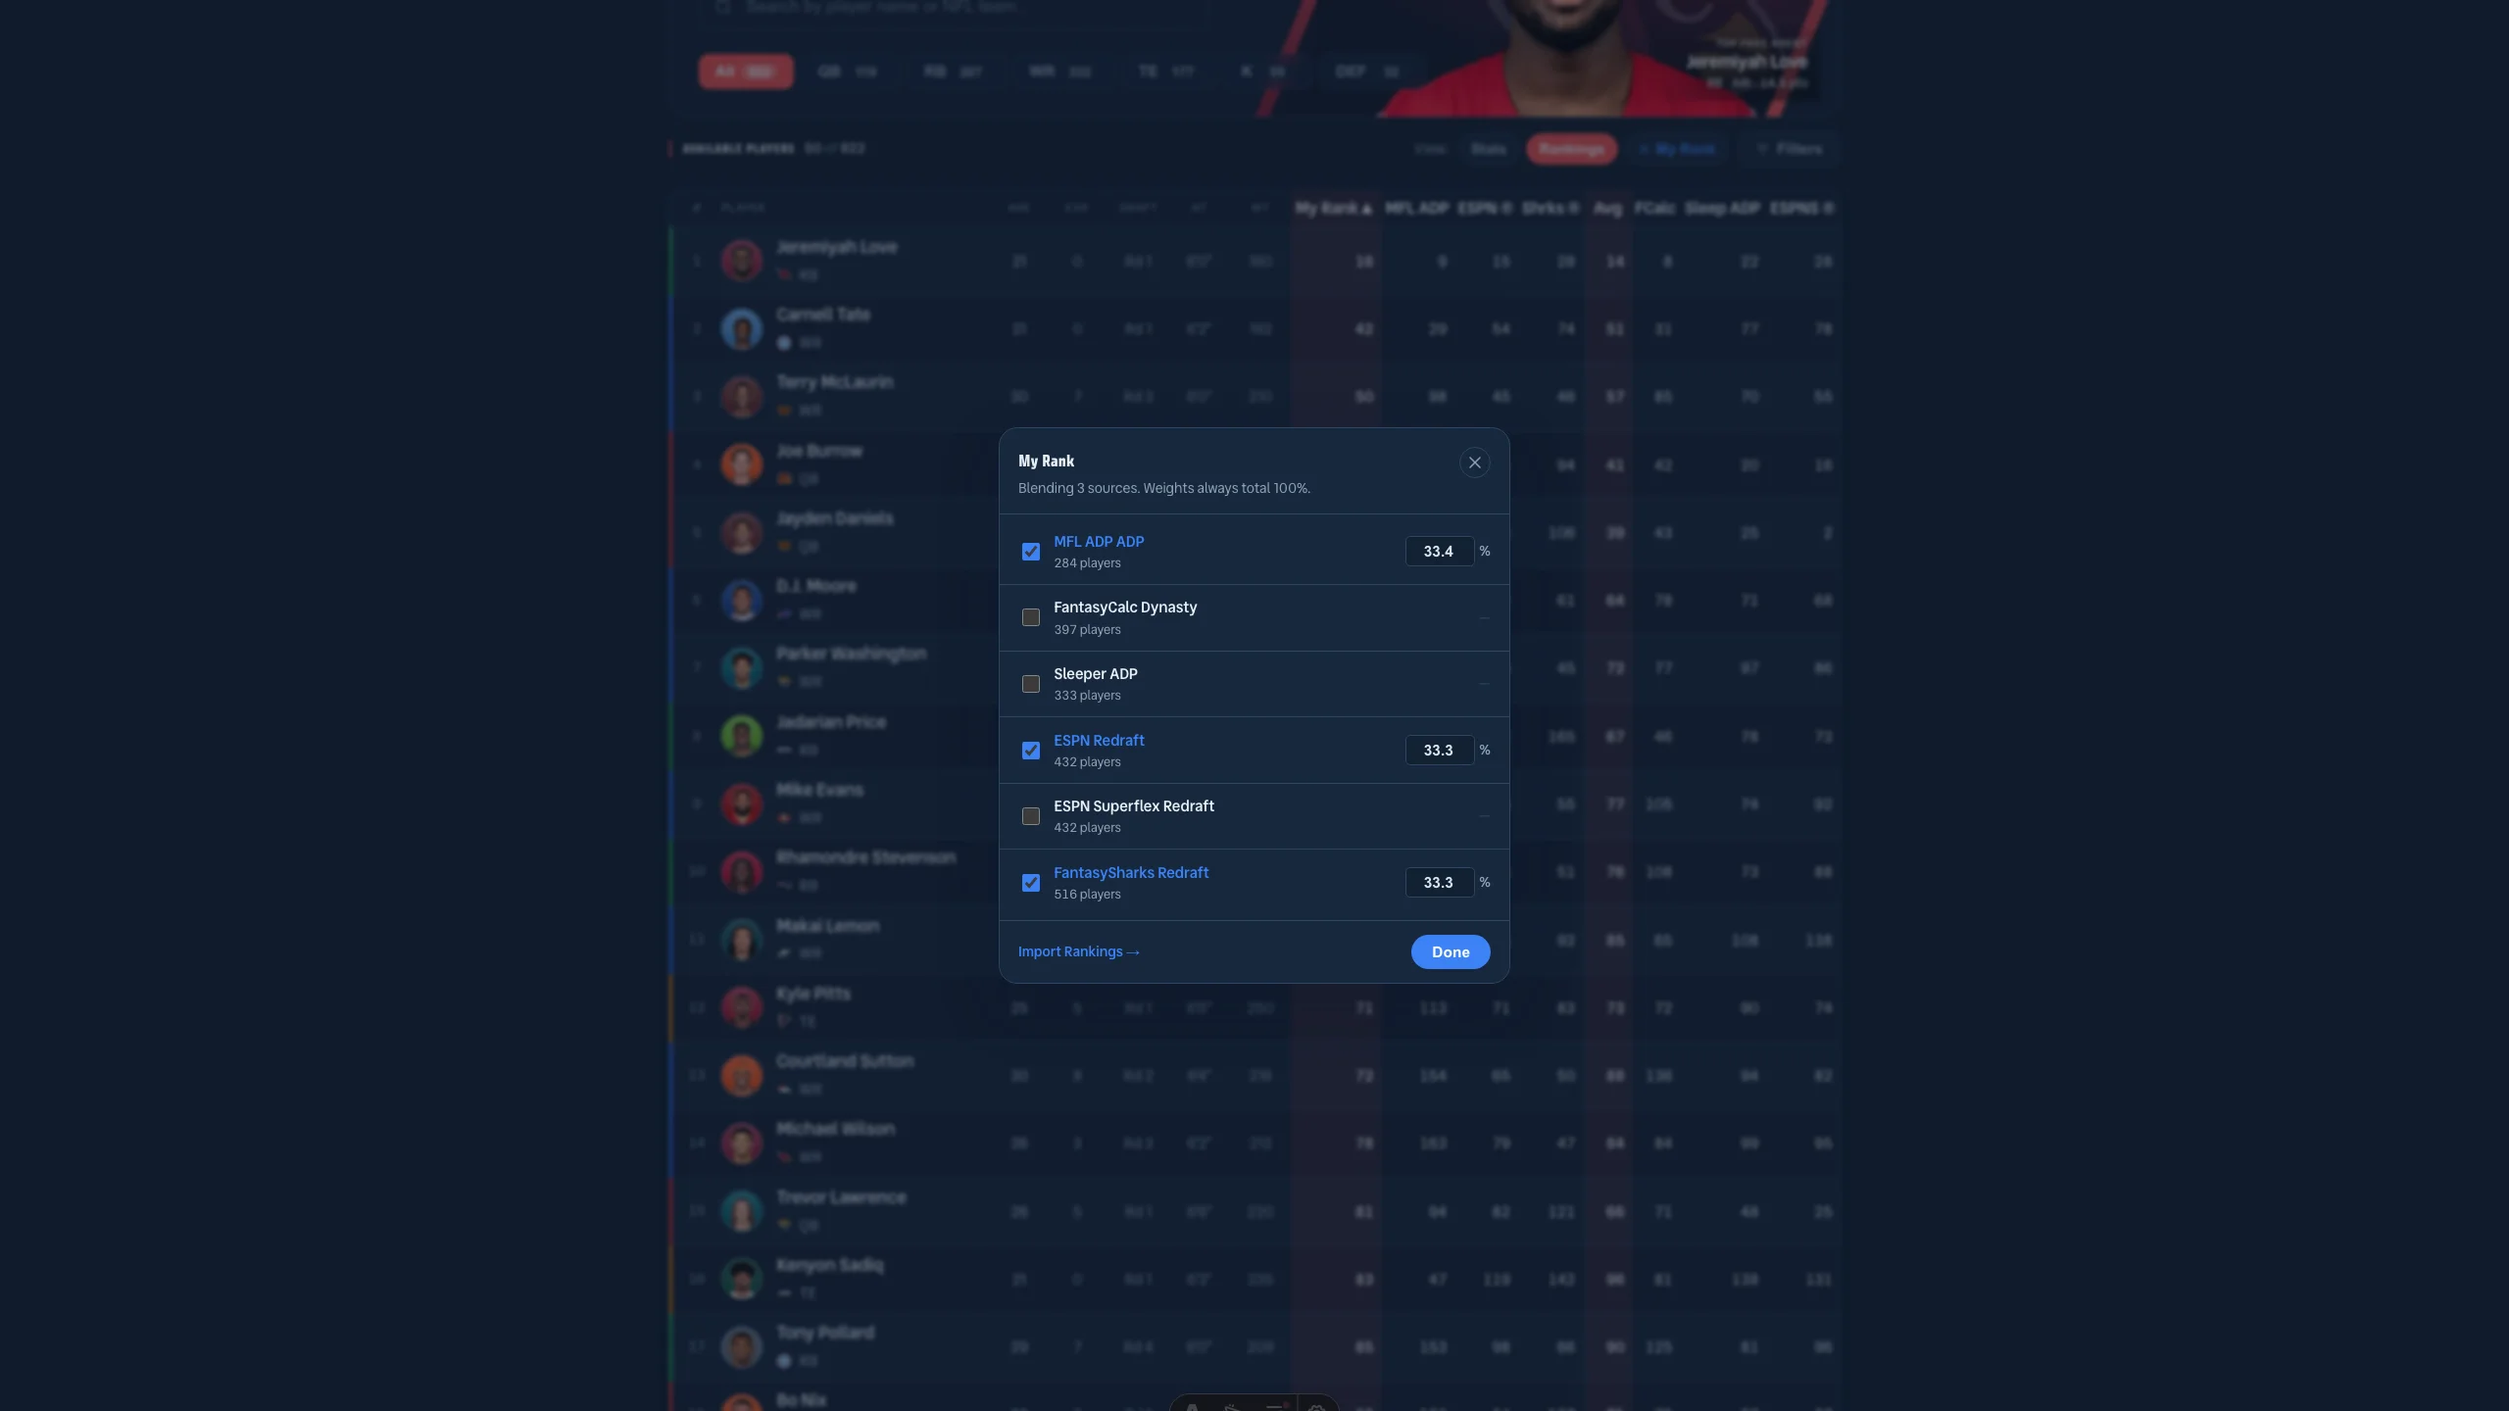
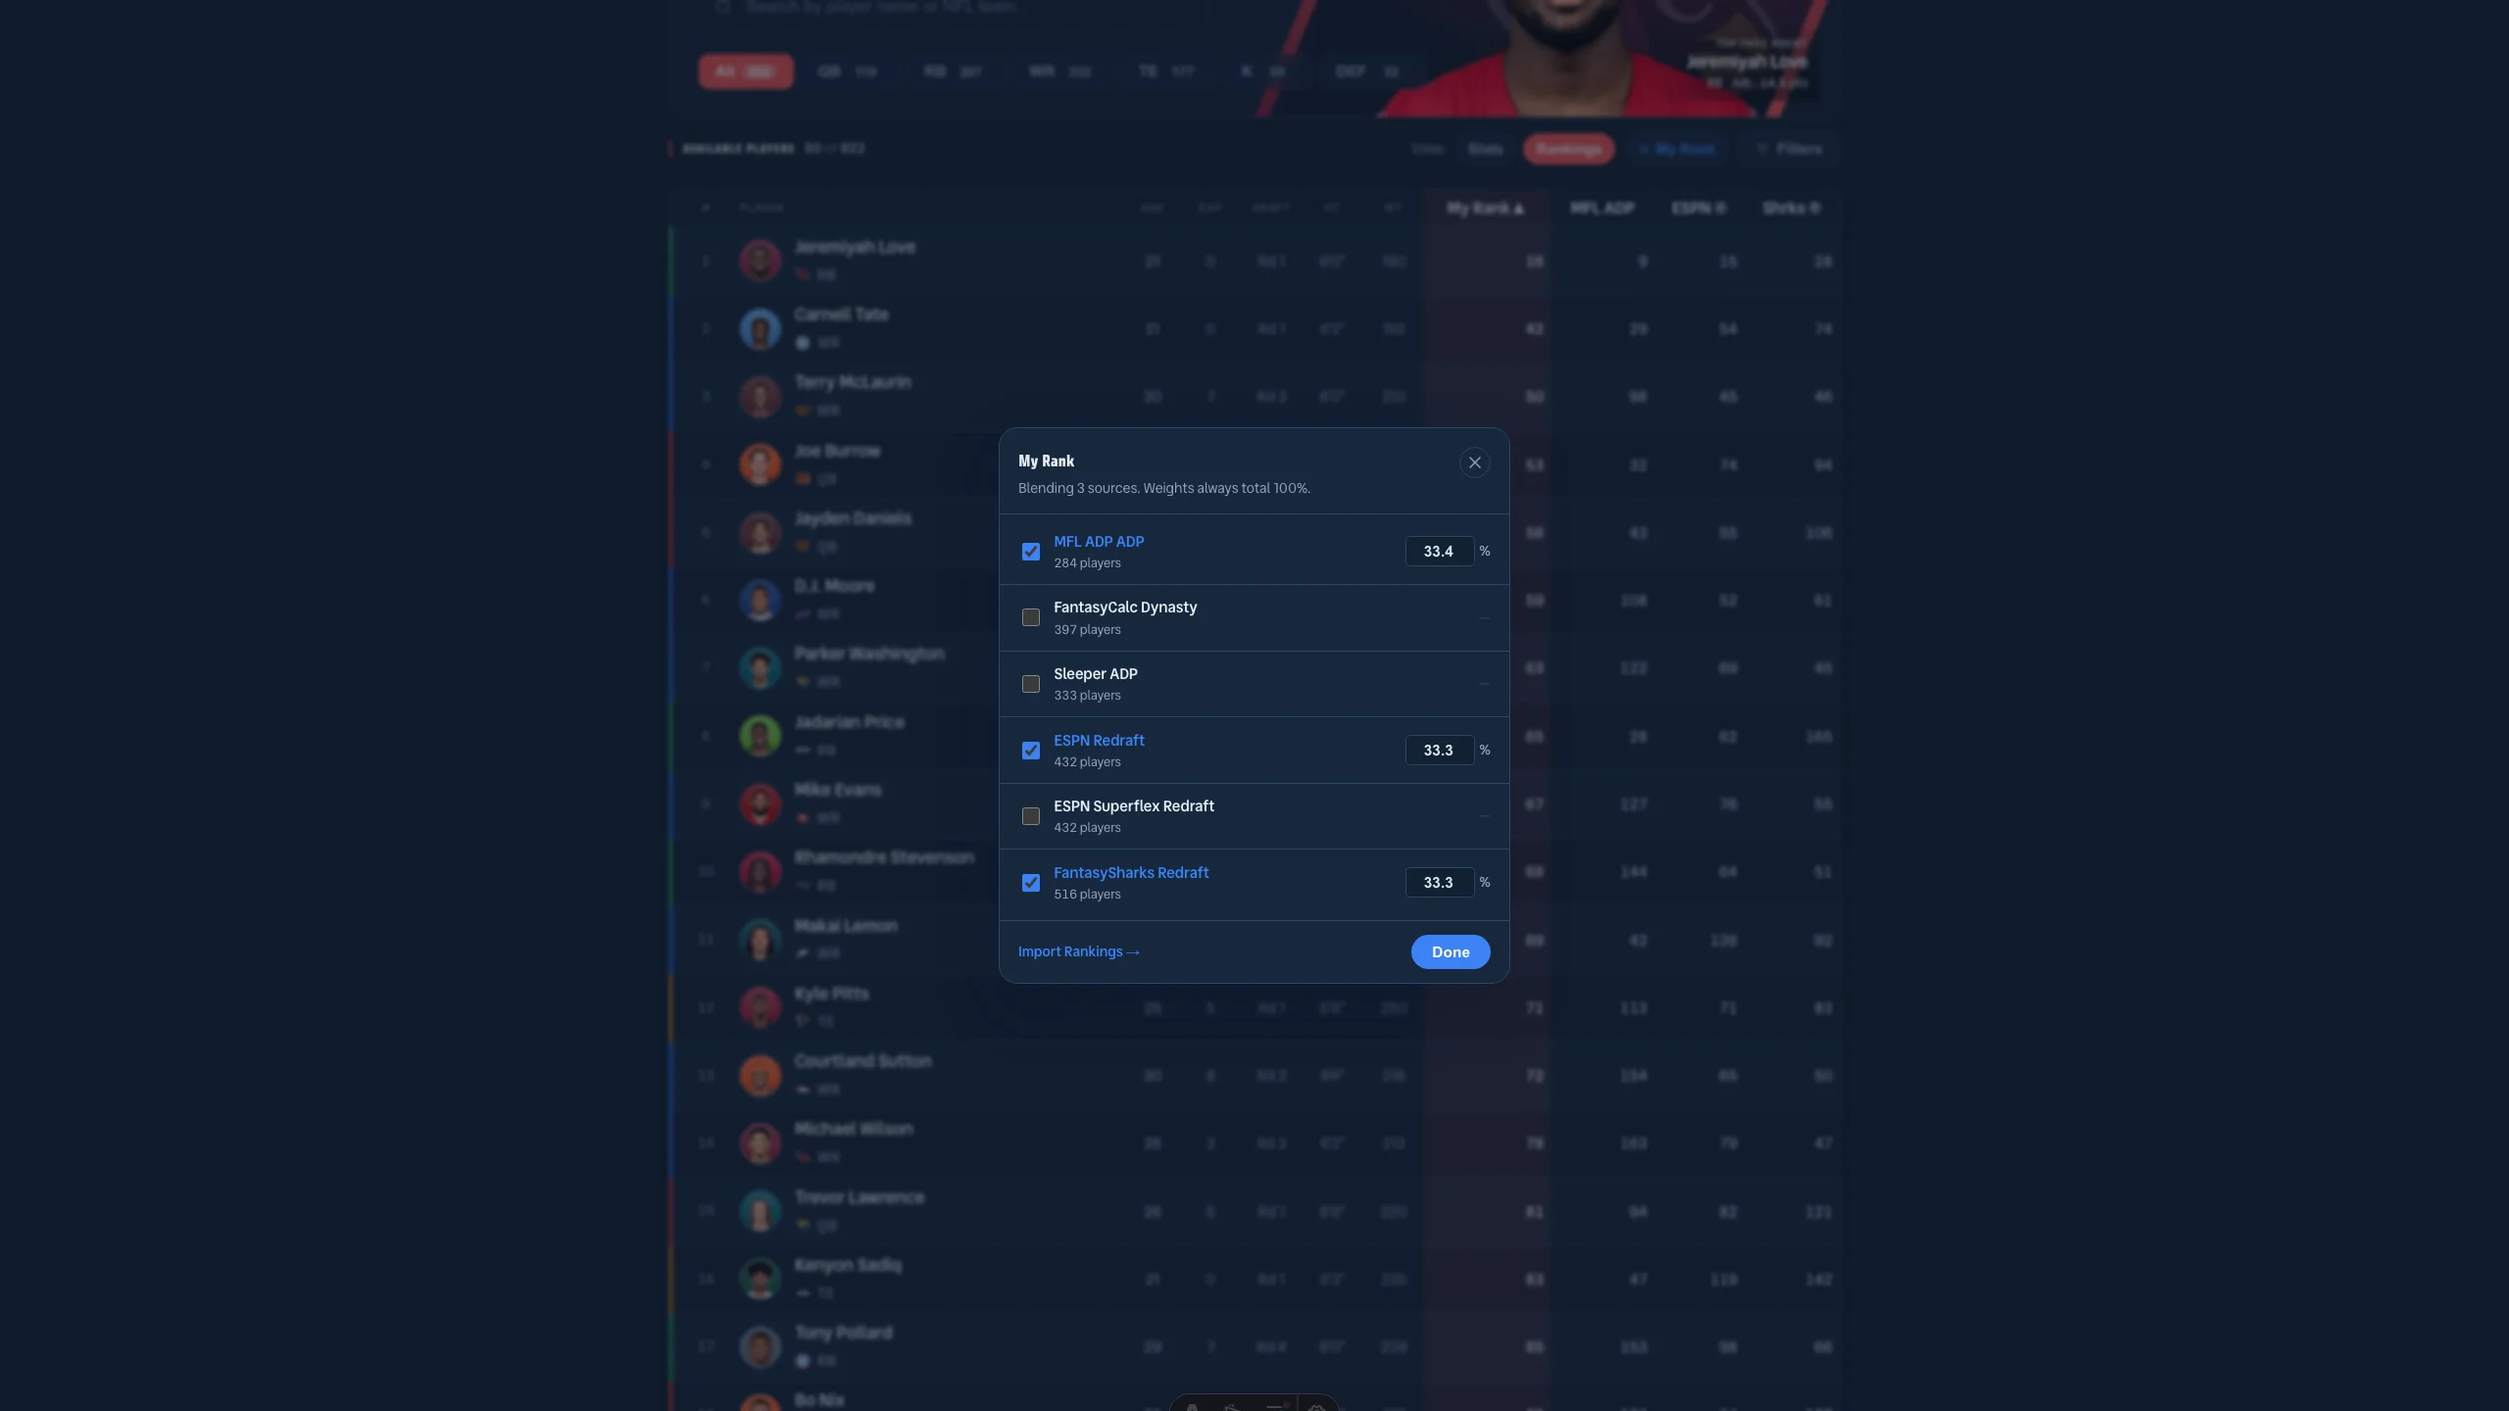
Show only the board you built, and move My Rank out of the View group
Two corrections to the Free Agents rankings view, applied in the shared
module so both leagues get them.

The ranking block showed every import you had ever loaded, plus the
synthetic Average column, capped at 5 or 8 depending on TheLeague's
rostered toggle. Average is the unweighted mean of EVERY import —
including the ones deliberately left out of the composite — so it was a
second opinion contradicting the one the owner built on purpose. And an
unticked source is one they have already said should not weigh on the
call, so it had not earned a column either.

visibleRankingColumns() now drops Average, keeps only My Rank and the
sources feeding it, and caps at 5 with My Rank always taking a slot. It
falls back to the raw import list when there is no composite, so
unticking everything does not silently empty the block.

Knock-on effects: the per-page maxColumns option is gone, and with it
TheLeague's rankings:get-rostered-state / rankings:rostered-changed
handshake — the budget no longer depends on page state, so the whole
channel was dead. A sorted column can now vanish underneath the owner
(untick the source you are sorted by), so injection falls back to the
leading visible column. isLastCompositeMember is stripped, since with no
non-members left the separator would draw a border at the table edge.

The My Rank trigger also moved next to Filters. It opens a dialog; sitting
inside the mutually-exclusive View pills it read as a fourth view.

diff --git a/src/utils/rankings-table.ts b/src/utils/rankings-table.ts
@@ -31,18 +31,48 @@ export interface RankingTableOptions {
   /** The `<th>` that ranking headers are inserted after, e.g. `[data-sort="weight"]`. */
   anchorSelector: string;
   /**
-   * How many ranking columns the table has room for right now. Re-read on
-   * every injection, so a page can widen/narrow the set as its own view state
-   * changes (TheLeague shows fewer when rostered players are included).
-   */
-  maxColumns: () => number;
-  /**
    * Extra classes for the composite ("My Rank") `<th>` only. TheLeague tags it
    * into its Value view; the AFL has no such view.
    */
   compositeThClasses?: string[];
-  /** Document events that should trigger a re-injection (e.g. a view toggle). */
-  reinjectOn?: string[];
+}
+
+/**
+ * Ceiling on ranking columns.
+ *
+ * Both Free Agents tables are already wide; past five the ranking block starts
+ * pushing the player column off a laptop screen and the numbers stop being
+ * comparable at a glance. My Rank always takes one of the five.
+ */
+export const MAX_RANKING_COLUMNS = 5;
+
+/**
+ * The ranking columns the table actually shows.
+ *
+ * Two rules, both about respecting a decision the owner already made:
+ *
+ * - **No Average column.** It is the unweighted mean of every import, which
+ *   means it includes sources the owner deliberately left OUT of their
+ *   composite. Once My Rank exists, Average is a second opinion contradicting
+ *   the one they built on purpose.
+ * - **Only the sources feeding My Rank.** An unticked source is one the owner
+ *   has already said shouldn't weigh on the decision, so it doesn't earn a
+ *   column either — that's what the My Rank editor is for.
+ *
+ * Falls back to the raw import list when there's no composite at all, so an
+ * owner who unticked everything still sees their boards rather than a table
+ * that silently lost its ranking columns.
+ */
+export function visibleRankingColumns(columns: RankingColumn[]): RankingColumn[] {
+  const withoutAverage = columns.filter((c) => !c.isAverage);
+  const board = withoutAverage.filter((c) => c.isComposite || c.isCompositeMember);
+  const chosen = board.length > 0 ? board : withoutAverage;
+
+  return chosen.slice(0, MAX_RANKING_COLUMNS).map((col) =>
+    // The member/non-member separator has nothing left to separate once the
+    // non-members are gone — it would just draw a border at the table edge.
+    col.isLastCompositeMember ? { ...col, isLastCompositeMember: false } : col,
+  );
 }
 
 /** Dispatch a CustomEvent on document (synchronous). */
@@ -91,8 +121,19 @@ export function rankingHeaderTitle(col: RankingColumn, allColumns: RankingColumn
 function injectRankingColumns(options: RankingTableOptions): void {
   const lookup: RankingLookup = buildRankingLookup();
 
-  const limitedColumns = lookup.columns.slice(0, Math.max(0, options.maxColumns()));
+  const limitedColumns = visibleRankingColumns(lookup.columns);
   const limitedLookup: RankingLookup = { ...lookup, columns: limitedColumns };
+
+  // A column can disappear underneath an active sort — untick a source in the
+  // My Rank editor and the table would keep sorting by a column nobody can
+  // see. Fall back to My Rank (or whatever leads now).
+  const sortKey = probe('rankings:get-sort').currentSort;
+  if (typeof sortKey === 'string' && sortKey.startsWith('ranking_')) {
+    const stillVisible = limitedColumns.some((c) => `ranking_${c.importId}` === sortKey);
+    if (!stillVisible && limitedColumns.length > 0) {
+      emit('rankings:set-sort', { key: `ranking_${limitedColumns[0].importId}`, dir: 'asc' });
+    }
+  }
 
   // Tell the inline script about the new lookup before touching the DOM, so a
   // re-render triggered below already has the matching column list.
@@ -160,7 +201,6 @@ function injectRankingColumns(options: RankingTableOptions): void {
  */
 export function initRankingTable(options: RankingTableOptions): void {
   let unsubscribe: (() => void) | null = null;
-  let reinjectBound = false;
 
   function init(): void {
     if (unsubscribe) {
@@ -171,15 +211,6 @@ export function initRankingTable(options: RankingTableOptions): void {
     injectRankingColumns(options);
 
     unsubscribe = onRankingsChanged(() => injectRankingColumns(options));
-
-    // Bind page-owned re-injection triggers once — these listeners outlive a
-    // single init, and re-binding on every page-load would stack duplicates.
-    if (!reinjectBound) {
-      reinjectBound = true;
-      for (const eventName of options.reinjectOn ?? []) {
-        document.addEventListener(eventName, () => injectRankingColumns(options));
-      }
-    }
   }
 
   document.addEventListener('rankings:page-ready', () => init());

diff --git a/tests/rankings-page-integration.test.ts b/tests/rankings-page-integration.test.ts
@@ -1,5 +1,10 @@
 import { describe, it, expect } from 'vitest';
 import { readFileSync } from 'node:fs';
+import {
+  MAX_RANKING_COLUMNS,
+  visibleRankingColumns,
+} from '../src/utils/rankings-table';
+import type { RankingColumn } from '../src/utils/rankings-lookup';
 
 /**
  * The rankings display surfaces, pinned against the drift that keeps happening.
@@ -51,6 +56,13 @@ describe('rankings reach every decision page', () => {
       ]) {
         expect(src, `${page} is missing ${event}`).toContain(event);
       }
+    });
+
+    it.each(FREE_AGENT_PAGES)('%s lets the shared module pick the columns', (page) => {
+      // Which ranking columns show is one rule for both leagues (the owner's
+      // composite, capped). A page passing its own budget is how the two
+      // tables drifted apart the first time.
+      expect(read(page)).not.toContain('maxColumns');
     });
 
     it.each(FREE_AGENT_PAGES)('%s re-applies column visibility after render', (page) => {
@@ -117,6 +129,59 @@ describe('rankings reach every decision page', () => {
     });
   });
 
+  describe('which ranking columns the table shows', () => {
+    const col = (over: Partial<RankingColumn>): RankingColumn => ({
+      importId: over.importId ?? 'x',
+      source: 'custom',
+      type: 'overall',
+      header: over.importId ?? 'x',
+      fullName: over.importId ?? 'x',
+      playerCount: 10,
+      importDate: '2026-08-21',
+      ...over,
+    });
+
+    const composite = col({ importId: '__composite__', isComposite: true });
+    const average = col({ importId: '__average__', isAverage: true });
+    const members = ['m1', 'm2', 'm3', 'm4', 'm5', 'm6'].map((id) =>
+      col({ importId: id, isCompositeMember: true }),
+    );
+    const others = ['o1', 'o2'].map((id) => col({ importId: id }));
+
+    it('drops the Average column', () => {
+      // Average is the unweighted mean of EVERY import — including the ones
+      // the owner deliberately left out of their composite, which makes it a
+      // second opinion contradicting the one they built on purpose.
+      const out = visibleRankingColumns([composite, average, ...members.slice(0, 2)]);
+      expect(out.some((c) => c.isAverage)).toBe(false);
+    });
+
+    it('shows only My Rank and the sources feeding it', () => {
+      const out = visibleRankingColumns([composite, ...members.slice(0, 2), ...others]);
+      expect(out.map((c) => c.importId)).toEqual(['__composite__', 'm1', 'm2']);
+    });
+
+    it(`never shows more than ${MAX_RANKING_COLUMNS} columns`, () => {
+      const out = visibleRankingColumns([composite, ...members]);
+      expect(out).toHaveLength(MAX_RANKING_COLUMNS);
+      // My Rank always takes one of the slots — it is the whole point.
+      expect(out[0].isComposite).toBe(true);
+    });
+
+    it('falls back to the raw imports when there is no composite', () => {
+      // An owner who unticked everything should still see their boards rather
+      // than a table that silently lost its ranking columns.
+      const out = visibleRankingColumns([average, ...others]);
+      expect(out.map((c) => c.importId)).toEqual(['o1', 'o2']);
+    });
+
+    it('drops the member separator, which has nothing left to separate', () => {
+      const last = col({ importId: 'm2', isCompositeMember: true, isLastCompositeMember: true });
+      const out = visibleRankingColumns([composite, members[0], last]);
+      expect(out.some((c) => c.isLastCompositeMember)).toBe(false);
+    });
+  });
+
   describe('My Rank editor', () => {
     // Re-weighting the composite used to mean leaving the page for Import
     // Rankings and coming back. Every page that SHOWS the composite should be
@@ -127,6 +192,17 @@ describe('rankings reach every decision page', () => {
       const src = read(page);
       expect(src).toContain('components/shared/rankings/MyRankEditor.astro');
       expect(src).toMatch(/<MyRankEditor\s+league="(theleague|afl)"/);
+    });
+
+    it.each(FREE_AGENT_PAGES)('%s keeps the trigger out of the View group', (page) => {
+      // My Rank opens a dialog; it is not a fourth view. Sitting inside the
+      // "View:" pill group it read as one.
+      const src = read(page);
+      const toggles = src.slice(
+        src.indexOf('class="col-group-toggles"'),
+        src.indexOf('</div>', src.indexOf('class="col-group-toggles"')),
+      );
+      expect(toggles).not.toContain('MyRankEditor');
     });
 
     it('the editor writes only through the storage helpers', () => {

diff --git a/docs/claude/insights/features/rankings-integration.md b/docs/claude/insights/features/rankings-integration.md
@@ -413,3 +413,41 @@ stay on Import Rankings, which it links to.
   rendered the light fallback in dark mode too — near-black on near-black, the
   exact trap `CLAUDE.md` warns about. Body text is `--color-gray-900`; form
   fields are `--input-bg` / `--input-text` / `--input-border`.
+
+### Which ranking columns a Free Agents table shows (2026-08-21, same day)
+
+The first cut showed every import as a column, capped at 5/8 depending on
+TheLeague's rostered toggle, with the synthetic Average column in the middle.
+That was wrong on both counts, and the fix is one rule in
+`rankings-table.ts#visibleRankingColumns` shared by both leagues:
+
+- **No Average column.** It is the unweighted mean of EVERY import, including
+  the ones the owner deliberately left out of their composite — a second
+  opinion that contradicts the one they built on purpose. It still exists in
+  `buildRankingLookup()` (the Rosters and Set Lineup surfaces read
+  `columns[0]`, which can legitimately be it); it is just not a Free Agents
+  column any more.
+- **Only My Rank and the sources feeding it.** An unticked source is one the
+  owner has already said shouldn't weigh on the decision. Falls back to the raw
+  import list when there is no composite at all, so unticking everything
+  doesn't silently empty the ranking block.
+- **Hard cap of 5**, My Rank included. Past that the ranking block pushes the
+  player column off a laptop screen.
+
+Three knock-on effects worth knowing:
+
+1. **The per-page `maxColumns` option is gone**, and with it TheLeague's
+   `rankings:get-rostered-state` / `rankings:rostered-changed` handshake — the
+   budget no longer depends on page state, so the whole channel was dead code.
+   A page that passes its own column budget is how the two tables drifted the
+   first time; the test now asserts neither page mentions `maxColumns`.
+2. **A sorted column can vanish.** Untick the source you're sorted by and the
+   table would keep sorting by a column nobody can see. `injectRankingColumns`
+   probes the current sort and falls back to the leading visible column.
+3. **`isLastCompositeMember` is stripped.** With non-members gone the
+   separator has nothing to separate and would just draw a border at the
+   table's edge.
+
+Related placement note: the My Rank trigger moved out of the `View:` pill
+group and next to Filters. It opens a dialog — inside a group of mutually
+exclusive view pills it read as a fourth view.
